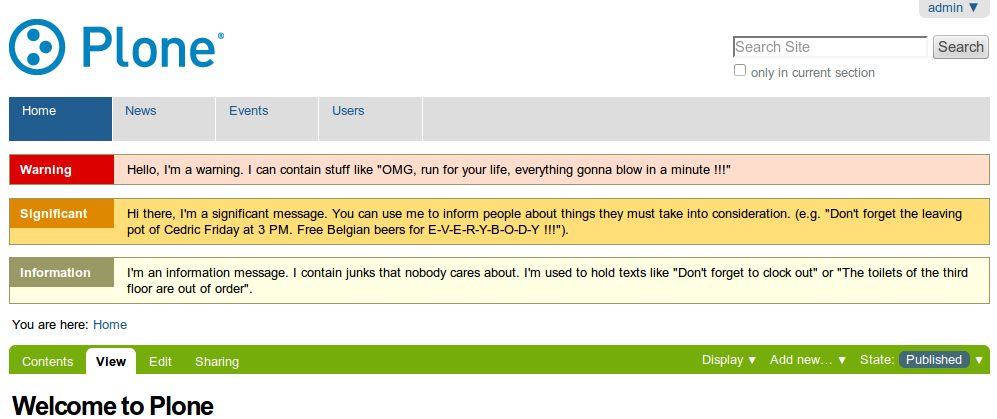
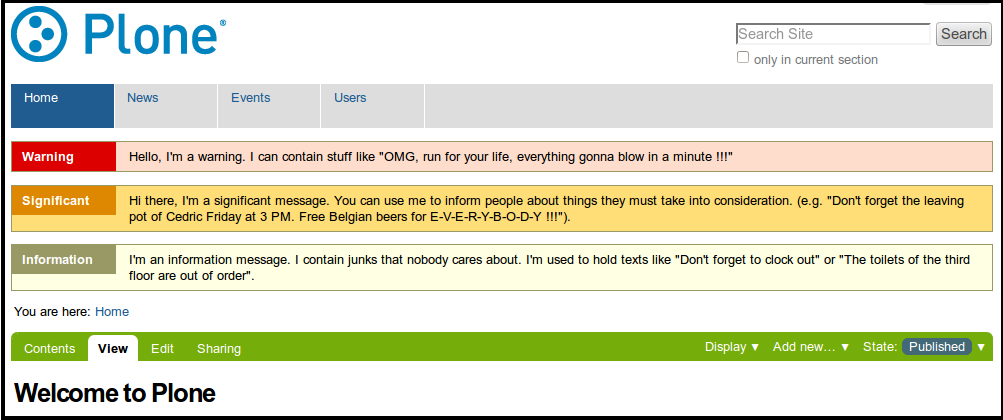
Puts some make up to images.

diff --git a/README.rst b/README.rst
@@ -12,8 +12,8 @@ Features
 --------
 .. image:: docs/messageviewletinaction.png 
     :alt: The three message types.
-    :width: 500
-    :height: 500
+    :width: 1003
+    :height: 420
     :align: center
 
 Messages are defined in control panel.
@@ -34,8 +34,8 @@ The collective.behavior.talcondition is enabled, providing 2 attributes.
 
 .. image:: docs/messageviewletinconfiguration.png 
     :alt: The management interface.
-    :width: 500
-    :height: 800
+    :width: 1000
+    :height: 901
     :align: center
 
 A workflow is provided with the following states:
